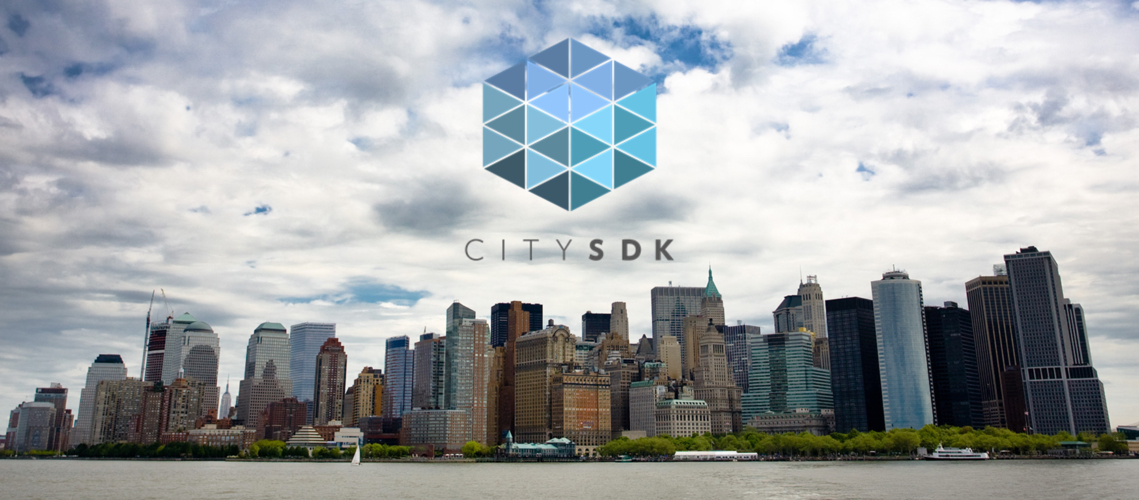
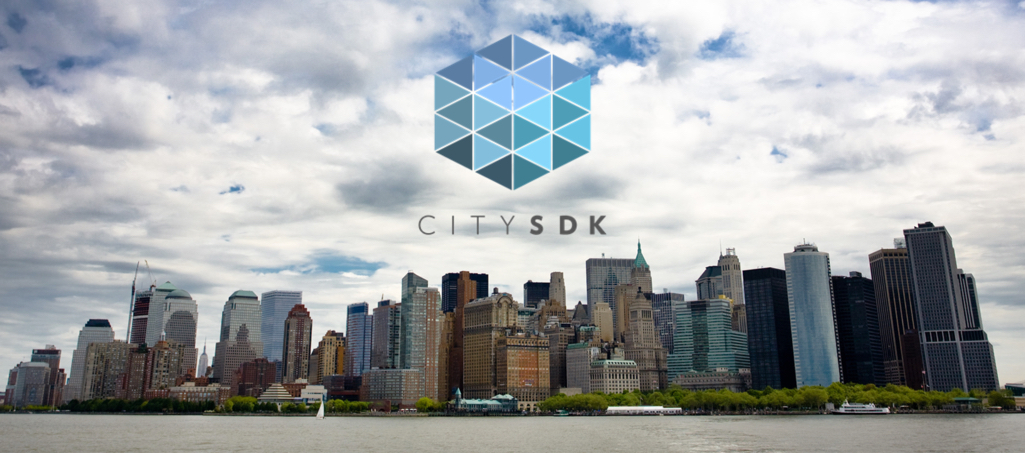
resized fg image

diff --git a/index.html b/index.html
@@ -35,7 +35,7 @@ title: US CitySDK by the US Census Bureau
             <div>
                 <div class="col-lg-12">
                     <div class="intro-message">
-                        <h1><img height: 450px; src="static/img/citysdk_feature.jpg"/></h1>
+                        <h1><img src="static/img/citysdk_feature.jpg"/></h1>
                         <h3>Toolbox for civic innovators to connect local and national public data</h3>
                         <hr class="intro-divider">
                     </div>
